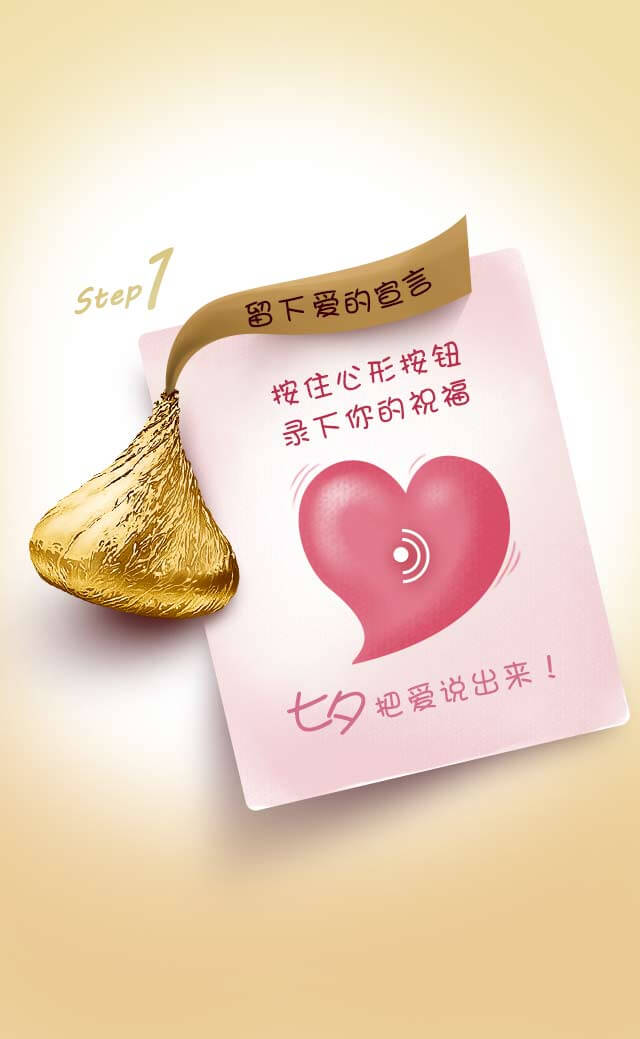
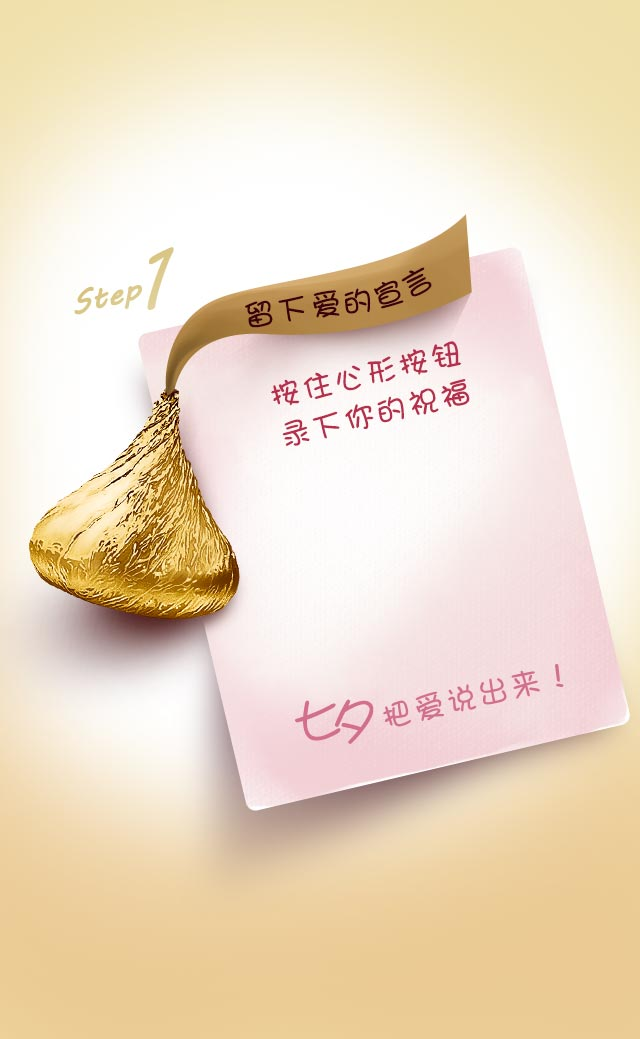
update

diff --git a/K11_start/css/style.css b/K11_start/css/style.css
@@ -359,8 +359,20 @@ body {
     font-size: 30px;
     text-align: center;
 }
-
-
+/* p2 */
+.p2 .record {
+    position: absolute;
+    width: 230px;
+    height: auto;
+    /*background:#000;*/
+    right: 156px;
+    top: 460px;
+}
+.p2 .again {
+    position: absolute;
+    right: 23px;
+    top: 571px;
+}
 /* p7 */
 
 .p7 .btnCustom {
@@ -387,7 +399,7 @@ body {
     position: absolute;
     width: 200px;
     height: 50px;
-    background:#000;
+    /*background:#000;*/
     right: 301px;
     top: 27%;
 }

diff --git a/K11_start/sender-step2.html b/K11_start/sender-step2.html
@@ -21,6 +21,8 @@
             <img src="images/content/step1.jpg" class="stepBg" />
             <img src="images/content/btn-next.png" class="btnNext" />
             <img src="images/share.png" class="share" />
+            <img src="images/content/btn-heart.png" class="record" />
+            <img src="images/content/btn-again.png" class="again" />
         </div>
         <div class="tips">
             <img src="images/content/shareTips.jpg" class="stepBg" />
